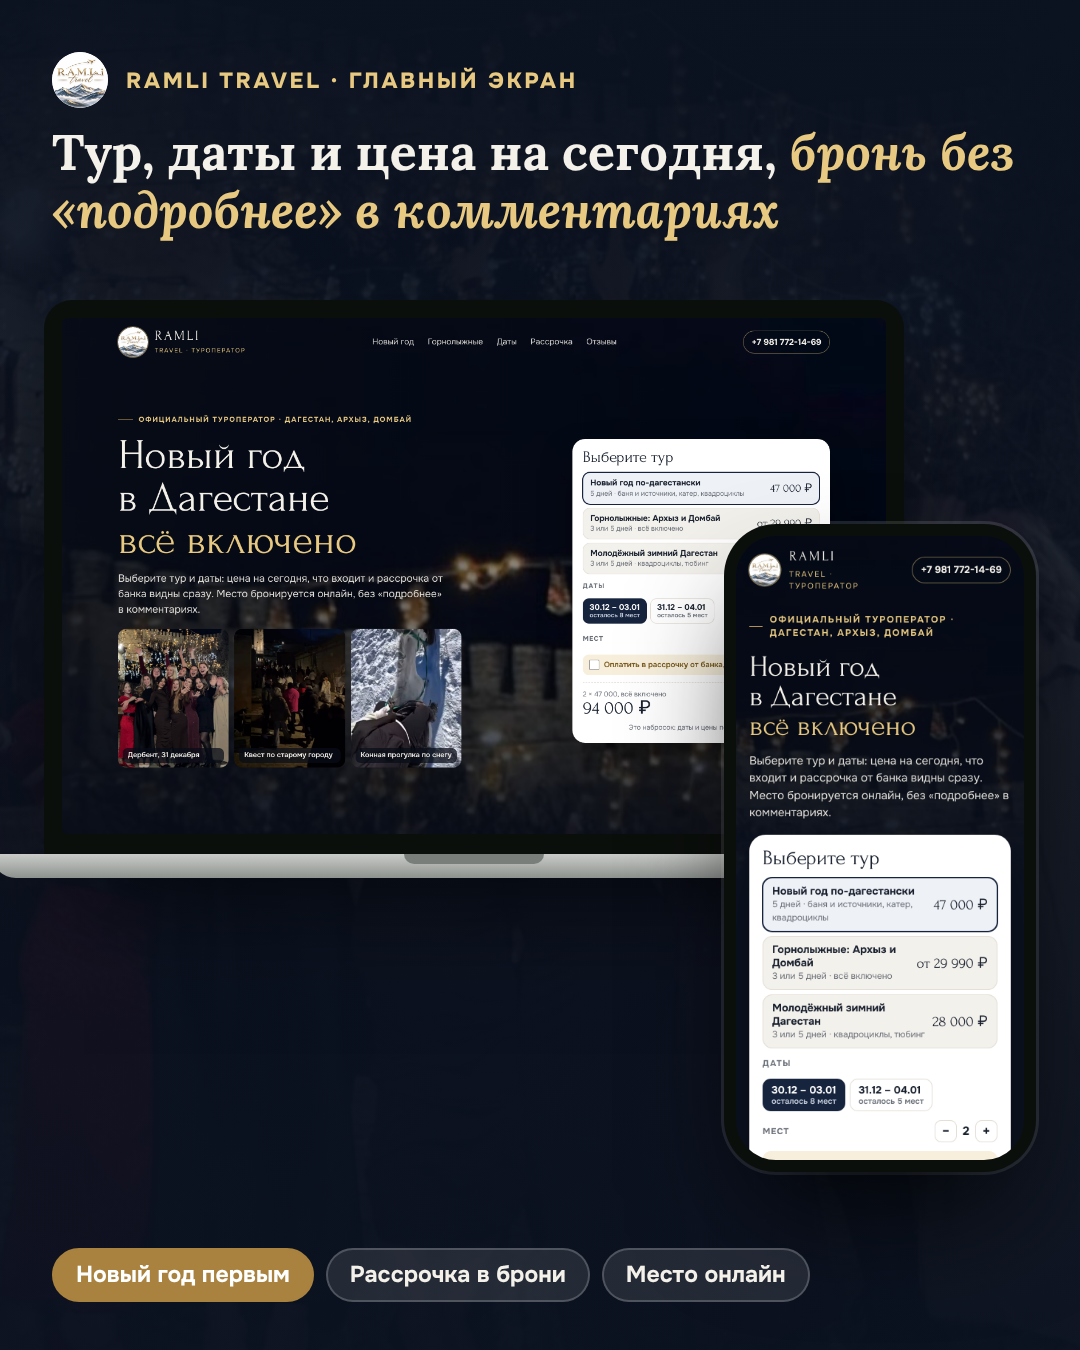
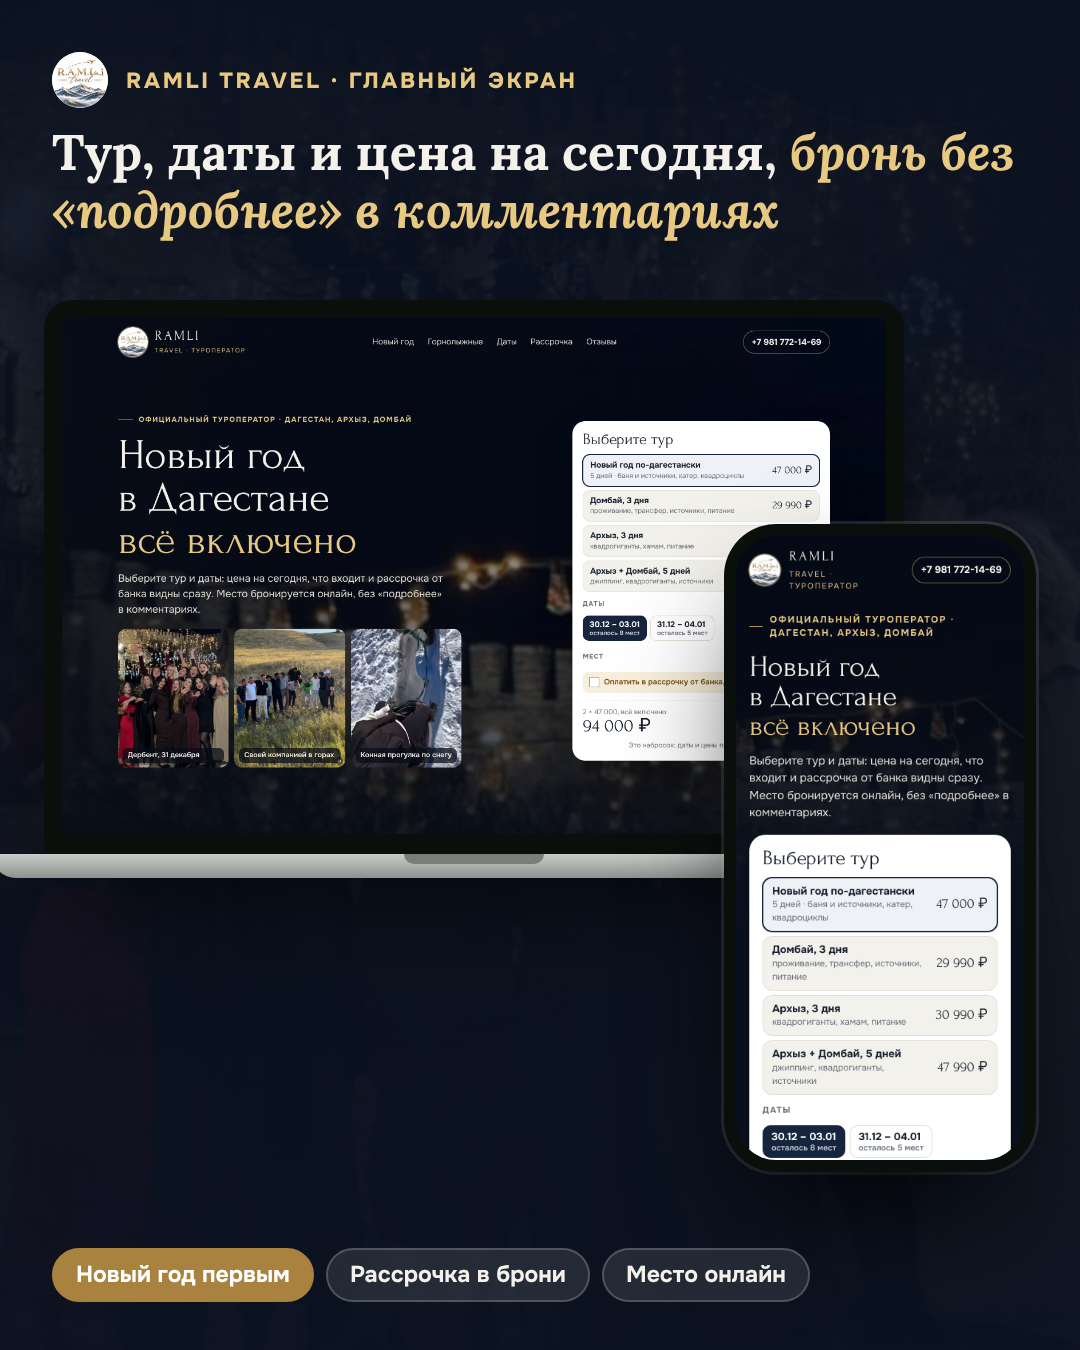
Рассылка: Ramli Travel, настоящие цены и даты горнолыжных туров
Claude-Session: https://claude.ai/code/session_01MqcZMDCk8PUncdn7RSx91k

diff --git a/rassylka/2026-11-22/ekrany/ramli/index.html b/rassylka/2026-11-22/ekrany/ramli/index.html
@@ -47,7 +47,7 @@ h1 em{font-style:normal;color:var(--gold-hi)}
 .tour{display:flex;justify-content:space-between;align-items:center;gap:10px;border:1.5px solid var(--line);background:var(--soft);border-radius:13px;padding:9px 12px;text-align:left;color:var(--ink)}
 .tour b{display:block;font-size:14.5px;line-height:1.2}
 .tour small{display:block;font-size:12px;color:var(--muted)}
-.tour .pr{font-family:var(--f-head);font-size:20px;white-space:nowrap}
+.tour .pr{font-family:var(--f-head);font-size:19px;white-space:nowrap}
 .tour[aria-pressed="true"]{border-color:var(--navy);background:#EEF1F6;box-shadow:0 0 0 1px var(--navy)}
 .lbl{font-size:11.5px;font-weight:700;letter-spacing:.12em;text-transform:uppercase;color:var(--muted)}
 .dates{display:flex;gap:6px;flex-wrap:wrap}
@@ -92,7 +92,7 @@ button:focus-visible{outline:2px solid var(--gold);outline-offset:2px}
       <p class="sub">Выберите тур и даты: цена на сегодня, что входит и рассрочка от банка видны сразу. Место бронируется онлайн, без «подробнее» в комментариях.</p>
       <div class="tiles">
         <div class="tile"><img src="img/gruppa.jpg" alt=""><span>Дербент, 31 декабря</span></div>
-        <div class="tile"><img src="img/kvest.jpg" alt=""><span>Квест по старому городу</span></div>
+        <div class="tile"><img src="img/pole.jpg" alt="" style="object-position:center 60%"><span>Своей компанией в горах</span></div>
         <div class="tile"><img src="img/kon.jpg" alt="" style="object-position:center 30%"><span>Конная прогулка по снегу</span></div>
       </div>
     </div>
@@ -112,15 +112,16 @@ button:focus-visible{outline:2px solid var(--gold);outline-offset:2px}
 const $=s=>document.querySelector(s);
 const T={
   ny:{name:"Новый год по-дагестански",sub:"5 дней · баня и источники, катер, квадроциклы",price:47000,dates:[["30.12 – 03.01","осталось 8 мест"],["31.12 – 04.01","осталось 5 мест"]]},
-  ski:{name:"Горнолыжные: Архыз и Домбай",sub:"3 или 5 дней · всё включено",price:29990,from:true,dates:[["4 – 6 дек","Архыз, 3 дня"],["11 – 13 дек","Домбай, 3 дня"],["14 – 18 дек","Архыз + Домбай"],["18 – 20 дек","Архыз, 3 дня"]]},
-  win:{name:"Молодёжный зимний Дагестан",sub:"3 или 5 дней · квадроциклы, тюбинг",price:28000,dates:[["27 – 29 нояб","3 дня"],["декабрь","даты уточним"]]}
+  dom:{name:"Домбай, 3 дня",sub:"проживание, трансфер, источники, питание",price:29990,dates:[["4 – 6 дек",""],["11 – 13 дек",""],["18 – 20 дек",""]]},
+  arh:{name:"Архыз, 3 дня",sub:"квадрогиганты, хамам, питание",price:30990,dates:[["4 – 6 дек",""],["11 – 13 дек",""],["18 – 20 дек",""]]},
+  ad:{name:"Архыз + Домбай, 5 дней",sub:"джиппинг, квадрогиганты, источники",price:47990,dates:[["14 – 18 дек",""],["21 – 25 дек",""]]}
 };
 const rub=n=>n.toLocaleString("ru-RU").replace(/[  ]/g," ")+" ₽";
 let S={t:"ny",d:0,n:2};
 function draw(){
-  $("#tours").innerHTML=Object.entries(T).map(([k,t])=>`<button type="button" class="tour" data-t="${k}" aria-pressed="${k===S.t}"><span><b>${t.name}</b><small>${t.sub}</small></span><span class="pr">${t.from?"от ":""}${rub(t.price)}</span></button>`).join("");
+  $("#tours").innerHTML=Object.entries(T).map(([k,t])=>`<button type="button" class="tour" data-t="${k}" aria-pressed="${k===S.t}"><span><b>${t.name}</b><small>${t.sub}</small></span><span class="pr">${rub(t.price)}</span></button>`).join("");
   const t=T[S.t];
-  $("#dates").innerHTML=t.dates.map((d,i)=>`<button type="button" data-d="${i}" aria-pressed="${i===S.d}">${d[0]}<small>${d[1]}</small></button>`).join("");
+  $("#dates").innerHTML=t.dates.map((d,i)=>`<button type="button" data-d="${i}" aria-pressed="${i===S.d}">${d[0]}${d[1]?`<small>${d[1]}</small>`:""}</button>`).join("");
   $("#n").textContent=S.n;
   const tot=t.price*S.n;
   $("#how").textContent=`${S.n} × ${rub(t.price).replace(" ₽","")}${t.from?" (от)":""}, всё включено`;
